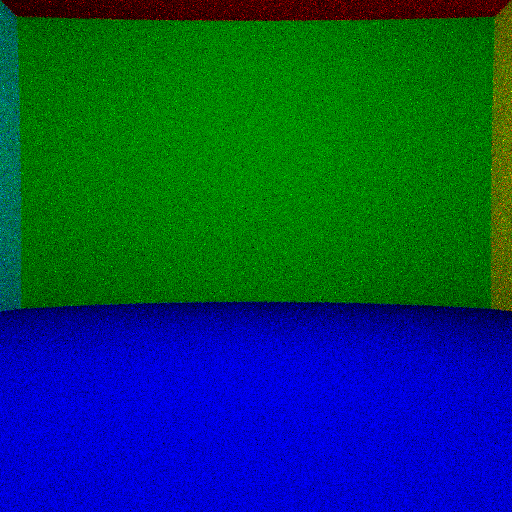
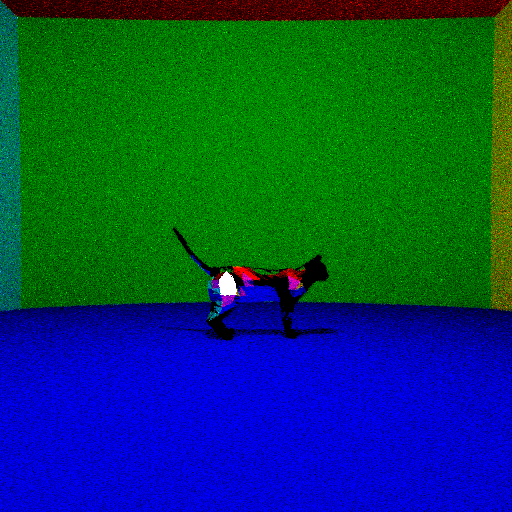
Simple Bounding Box

diff --git a/main.cpp b/main.cpp
@@ -23,6 +23,11 @@ struct Intersection {
   Vector albedo;
 };
 
+struct BoundingBox {
+  Vector B_min;
+  Vector B_max;
+};
+
 class Ray {
   public:
     Ray(const Vector& O, const Vector& u) {
@@ -327,13 +332,14 @@ class TriangleMesh : public Geometry {
 
       }
       fclose(f);
-
+      this->full_bounding_box = compute_full_bounding_box();
     }
 
     Intersection intersect(const Ray &ray) override {
       Intersection intersection;
       intersection.intersected = false;
-      if (not intersection_possible(ray)) return intersection;
+      if (not intersect_bounding_box(ray, this->full_bounding_box)) 
+        return intersection;
 
       Vector A, B, C, N, e1, e2;
       double min_t = MAXFLOAT;
@@ -367,13 +373,53 @@ class TriangleMesh : public Geometry {
     }
     
   private:
-    bool intersection_possible(const Ray &ray) {
+
+    BoundingBox compute_full_bounding_box() {
+      double min_x = MAXFLOAT, min_y = MAXFLOAT, min_z = MAXFLOAT;
+      double max_x = - MAXFLOAT, max_y = - MAXFLOAT, max_z = - MAXFLOAT;
+      for(auto const& vertex: vertices) {
+        Vector V = scaling_factor*vertex + translation;
+        if (V[0] < min_x) min_x = V[0];
+        else if (V[0] > max_x) max_x = V[0];
+        if (V[1] < min_y) min_y = V[1];
+        else if (V[1] > max_y) max_y = V[1];
+        if (V[2] < min_z) min_z = V[2];
+        else if (V[2] > max_z) max_z = V[2];
+      }
+
+      BoundingBox bounding_box;
+      bounding_box.B_min = Vector(min_x, min_y, min_z);
+      bounding_box.B_max = Vector(max_x, max_y, max_z);
+      return bounding_box;
+    }
+
+
+    bool intersect_bounding_box(const Ray &ray, BoundingBox bounding_box) {
       double tx1, ty1, tz1;
       double tx0, ty0, tz0;
+      double t_B_min, t_B_max;
+      Vector N;
 
-      if (std::min(tx1,ty1,tz1) > std::max(tx0,ty0,tz0)) {
+      N = Vector(1,0,0);
+      t_B_min = dot(bounding_box.B_min - ray.O, N) / dot(ray.u, N);
+      t_B_max = dot(bounding_box.B_max - ray.O, N) / dot(ray.u, N);
+      tx0 = std::min(t_B_min, t_B_max);
+      tx1 = std::max(t_B_min, t_B_max);
+
+      N = Vector(0,1,0);
+      t_B_min = dot(bounding_box.B_min - ray.O, N) / dot(ray.u, N);
+      t_B_max = dot(bounding_box.B_max - ray.O, N) / dot(ray.u, N);
+      ty0 = std::min(t_B_min, t_B_max);
+      ty1 = std::max(t_B_min, t_B_max);
+
+      N = Vector(0,0,1);
+      t_B_min = dot(bounding_box.B_min - ray.O, N) / dot(ray.u, N);
+      t_B_max = dot(bounding_box.B_max - ray.O, N) / dot(ray.u, N);
+      tz0 = std::min(t_B_min, t_B_max);
+      tz1 = std::max(t_B_min, t_B_max);
+
+      if (std::min({tx1,ty1,tz1}) > std::max({tx0,ty0,tz0}))
         return true;
-      }
       return false;
     }
 
@@ -384,6 +430,7 @@ class TriangleMesh : public Geometry {
     std::vector<Vector> vertexcolors;
     Vector translation;
     double scaling_factor;
+    BoundingBox full_bounding_box;
 };
 
 class BasicScene {
@@ -531,7 +578,7 @@ int main() {
   scene.addGeometry(light);
 
   // Cat
-  TriangleMesh* cat = new TriangleMesh(false, 0.6, Vector(0, -10, 0));
+  TriangleMesh* cat = new TriangleMesh(false, 0.3, Vector(0, -10, 0));
   cat->readOBJ("objs/cat.obj");
   scene.addGeometry(cat);
 
@@ -569,7 +616,7 @@ int main() {
   std::vector<unsigned char> image(W*H * 3, 0);
   double fov = 1.0472; // 60 deg
   Vector camera_position = Vector(0, 0, 55);
-  double max_ray_depth = 5;
+  double max_ray_depth = 20;
   double gamma = 2.2;
 
   #pragma omp parallel for

diff --git a/REPORT.md b/REPORT.md
@@ -8,3 +8,11 @@ Render: 1024x1024, 100 rays per pixel.
 ## TD2
 
 ## TD3
+
+## TD4
+
+200x200, 1 ray per pixel, 0.3 cat, indirect + spherical lighting, no bounding box = 25s
+200x200, 1 ray per pixel, 0.3 cat, indirect + spherical lighting, bounding box = ?s
+
+512x512, 10 ray per pixel, 0.3 cat, indirect + spherical lighting, no bounding box = 1455s
+512x512, 10 ray per pixel, 0.3 cat, indirect + spherical lighting, bounding box = ?s
